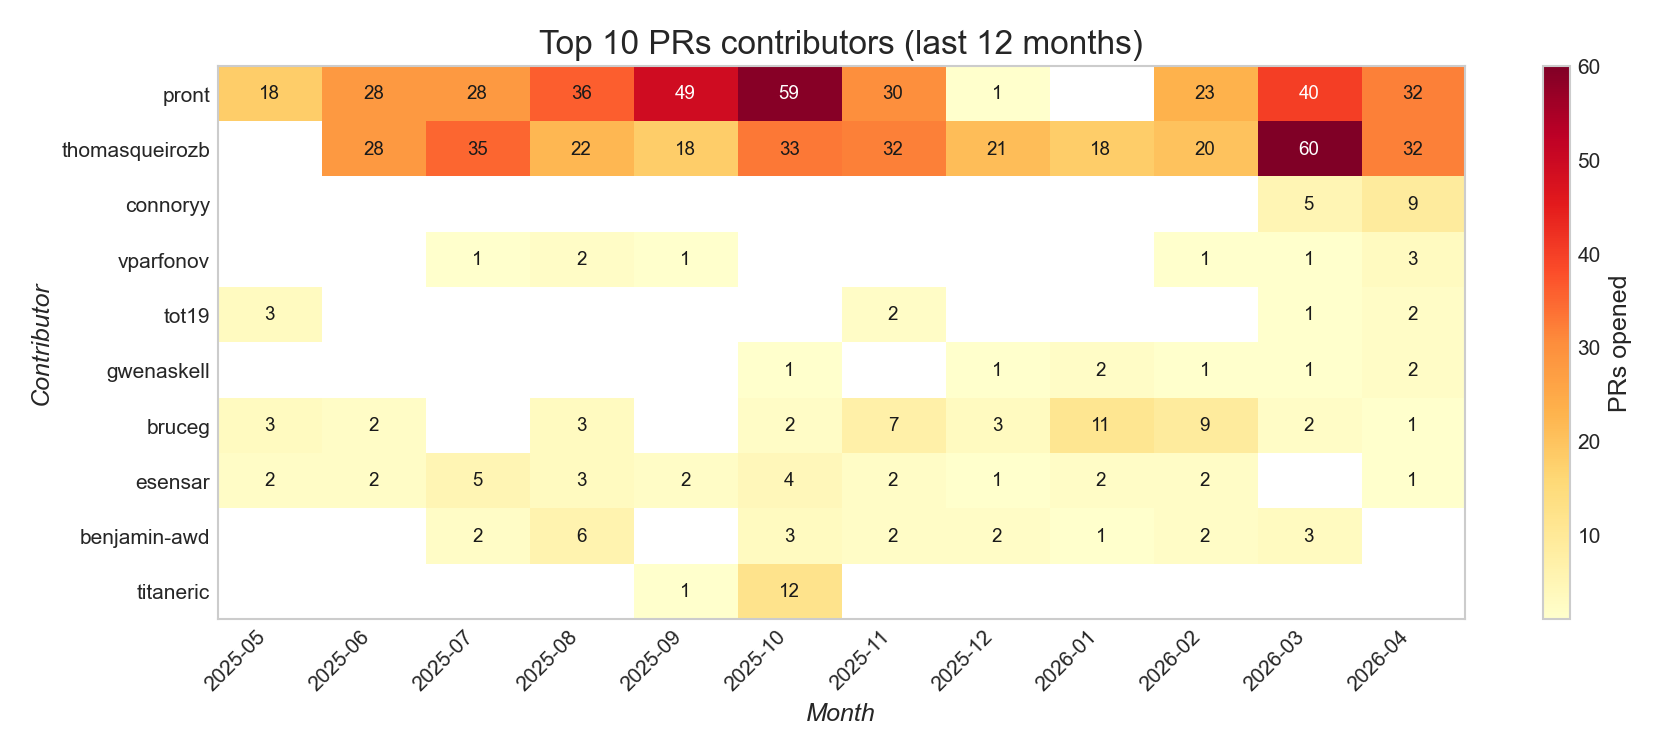
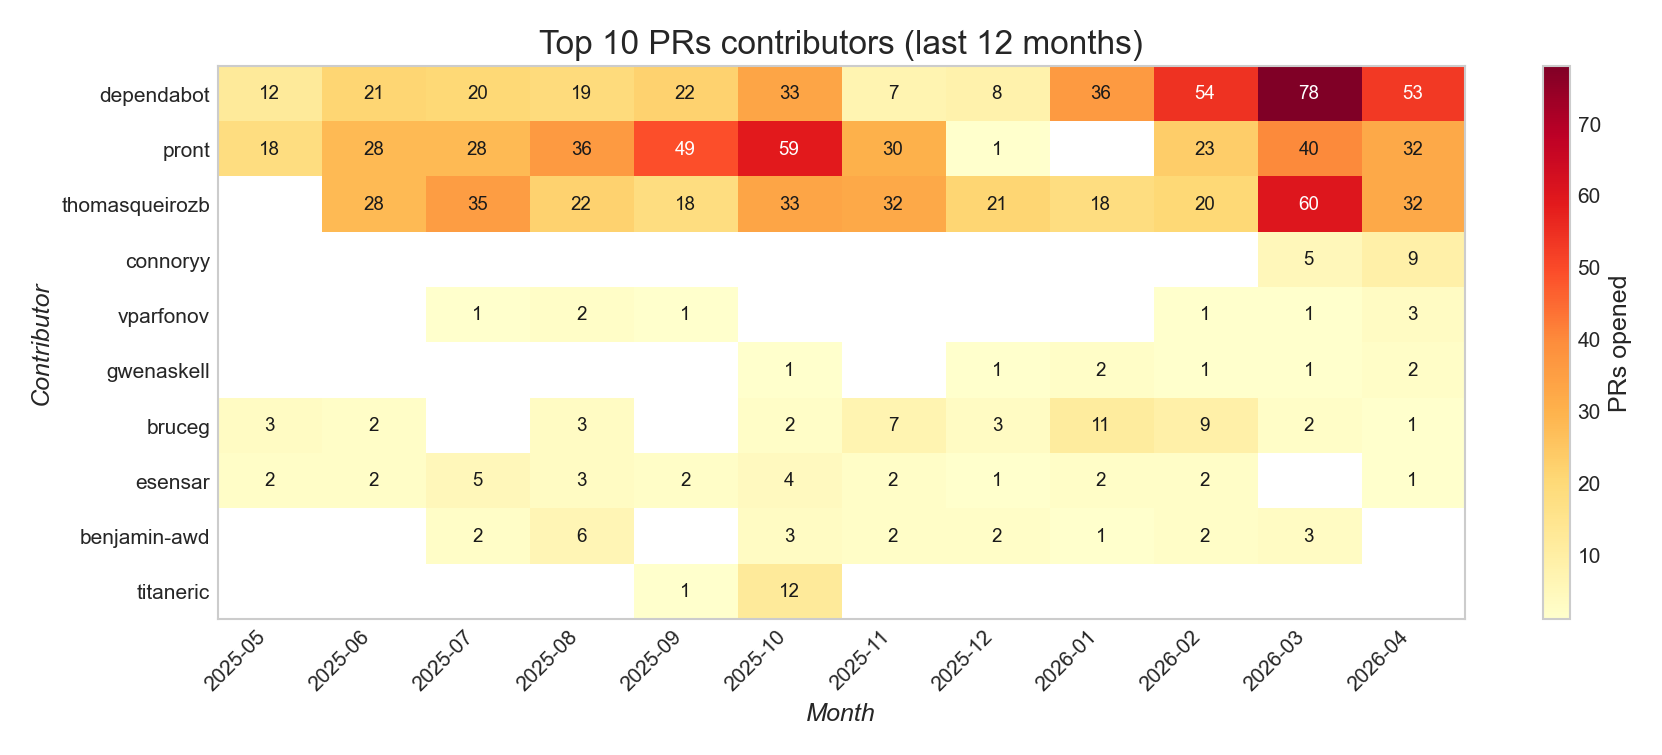
Include bots in contributor heatmap, keep excluded from unique-contributor counts

diff --git a/scripts/util/plot.py b/scripts/util/plot.py
@@ -627,11 +627,6 @@ def plot_contributor_heatmap(path, table, output_path, top_n=10, window_months=1
             logging.warning(f"[{table}] Contributor CSV is empty: {path}")
             return
 
-        df = df[~df["user_login"].map(is_bot_login)]
-        if df.empty:
-            logging.warning(f"[{table}] No non-bot contributors in {path}")
-            return
-
         months_all = sorted(df["month"].dropna().unique())
         window = months_all[-window_months:]
         df = df[df["month"].isin(window)]
